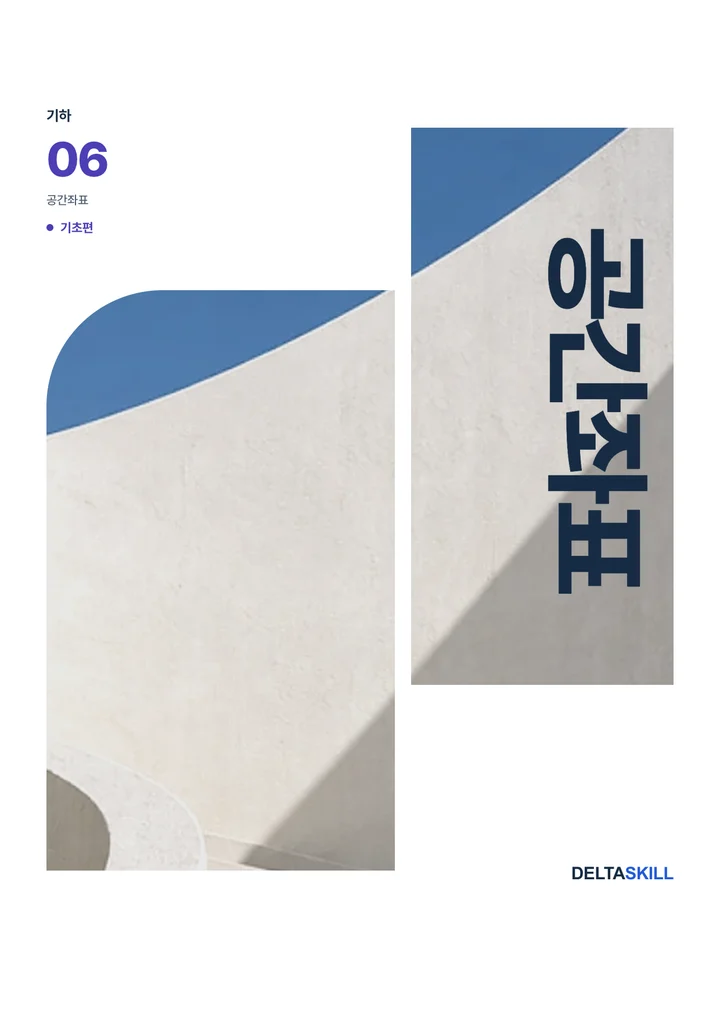
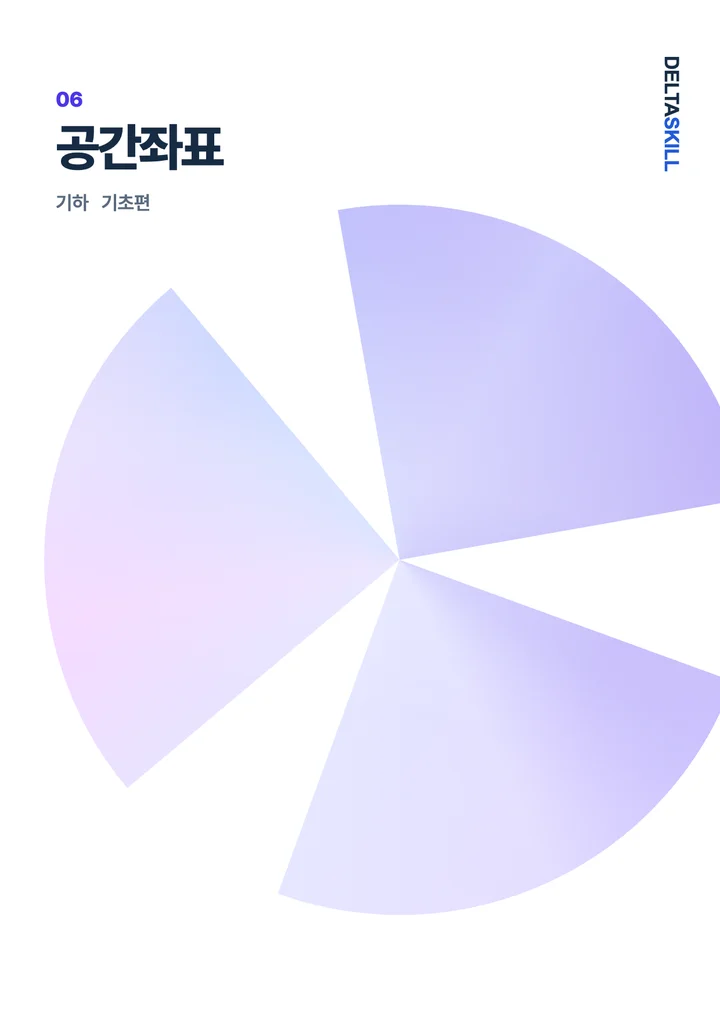
지침 확인: 홈페이지_디자인규칙_1118 (스킬: 공개리포기밀 · 차분간결) — 자료받기 표지 38장 글리프 · 톤온톤 두 방향으로 교체(형 11-25 「올린다」)
- 표지 webp 38장 덮어씀(바뀐 28 · 같던 10) · 주소 꼬리표 ?v=cover-r2-1125(자료받기 · 받은 자료)
- 구역 색 줄: 예상문제집 공통수학2 짙은 청록 · 미적분Ⅰ 짙은 올리브 · 쎈 기하 남보라로 맞춤
- index.html 의 materials-shop.js · student-downloads-receipts.js 꼬리표 새 sha · CSS 묶음 변경 0

diff --git a/app/index.html b/app/index.html
@@ -1,5 +1,5 @@
 <!doctype html>
 <html lang="ko"><head><meta name="robots" content="noindex,nofollow"><link rel="icon" href="/favicon-32.png"><script src="design-preview-bridge.js?v=17.4-1123dg"></script><meta charset="utf-8"><script>if(new URLSearchParams(location.search).has("capture"))document.documentElement.classList.add("hero-capture");</script><style>.hero-capture{scrollbar-width:none}.hero-capture::-webkit-scrollbar{display:none}</style><meta name="viewport" content="width=device-width,initial-scale=1"><meta name="description" content="델타스킬. 수학, 여기 다 있다."><title>DELTASKILL · 수학, 여기 다 있다</title><link rel="stylesheet" data-style-bundle="cascade-1" href="styles-cascade-1.css?v=7a7cc3252049" data-source-styles="[&quot;/app/deltaskill-next.css?v=99922a869ee7&quot;,&quot;/app/account-views.css?v=bb647539a267&quot;,&quot;/app/site-v2.css?v=2d4ad8428c0c&quot;,&quot;/app/site-v4.css?v=7aff2c2b0654&quot;,&quot;/app/classroom-views.css?v=4d4ecf023702&quot;,&quot;/app/diagnostics-v5.css?v=efa1a290ea06&quot;,&quot;/app/account-v7.css?v=2ae62026423e&quot;,&quot;/app/csat-v7.css?v=d20234a153c0&quot;,&quot;/app/site-v8.css?v=fc7b8469a2f6&quot;,&quot;/app/design-direction-b.css?v=28b64bd54500&quot;]"><link rel="stylesheet" crossorigin href="https://cdn.jsdelivr.net/gh/orioncactus/pretendard@v1.3.9/dist/web/variable/pretendardvariable-dynamic-subset.min.css" media="print" onload="this.media='all'"><noscript><link rel="stylesheet" href="https://cdn.jsdelivr.net/gh/orioncactus/pretendard@v1.3.9/dist/web/variable/pretendardvariable-dynamic-subset.min.css"></noscript><link rel="stylesheet" data-style-bundle="cascade-2" href="styles-cascade-2.css?v=94d0ea6cb77a" data-source-styles="[&quot;/app/composition-core-v12.css?v=8add953e50d9&quot;,&quot;/app/premium-library-v12.css?v=3dedd63a5239&quot;,&quot;/app/premium-account-v12.css?v=3120ed4cd9d5&quot;,&quot;/app/editorial-library-v13.css?v=902f303216fd&quot;,&quot;/app/editorial-core-v13.css?v=4c1de445f548&quot;,&quot;/app/editorial-account-v13.css?v=b60bc1f6f3c0&quot;,&quot;/app/type-and-touch-v13.css?v=59bc93156a8d&quot;,&quot;/app/print-composer-v14.css?v=e03c8d121331&quot;,&quot;/app/original-layouts-v14.css?v=b67bb7ba2136&quot;,&quot;/app/paper-scenes-v15.css?v=d946c0f1601a&quot;,&quot;/app/print-design-editor-v16.css?v=dbc028387603&quot;,&quot;/app/page-details-v16.css?v=89b5626f01e1&quot;,&quot;/app/print-design-account-v17.css?v=33a2499a5f22&quot;,&quot;/app/page-details-v17.css?v=90b8f06268a0&quot;,&quot;/app/csat-sn27-v17.css?v=a68c80c4d84a&quot;,&quot;/app/entrance-polish-v17.css?v=1645b4dcdce1&quot;,&quot;/app/time-attack-v18.css?v=ffd724841420&quot;,&quot;/app/tactile-controls-v18.css?v=bc0357589a94&quot;,&quot;/app/ipad-hardware-v19.css?v=82b4699ec454&quot;,&quot;/app/student-onboarding-v19.css?v=a03357ab8cf3&quot;,&quot;/app/library-finder-v19.css?v=52ab416e0a41&quot;,&quot;/app/account-polish-v19.css?v=581abc19d902&quot;,&quot;/app/csat-learning-v20.css?v=b7a77b76b3e8&quot;,&quot;/app/navigation-v20.css?v=c1dadb2f5445&quot;,&quot;/app/technology-v20.css?v=0d97ebece926&quot;,&quot;/app/teacher-books-v20.css?v=5caaf9bfaf8a&quot;,&quot;/app/material-interiors-v21.css?v=ae8a60eb313d&quot;,&quot;/app/material-teacher-v21.css?v=ea0127069b64&quot;,&quot;/app/upload-request-v22.css?v=98d27836f870&quot;,&quot;/app/upload-entry-v22.css?v=03b9092d4204&quot;,&quot;/app/audit-refinements-v23.css?v=a442e55b5d3f&quot;,&quot;/app/hero-time-demo-v23.css?v=01a83f1496a6&quot;,&quot;/app/learning-grade-v23.css?v=299a8480ab48&quot;,&quot;/app/technology-editorial-v24.css?v=504411d5a64d&quot;]"><link rel="stylesheet" data-ds-katex-version="0.18.4" href="assets/vendor/katex-0.18.4/katex-embed.css?v=24.3"><link rel="stylesheet" data-style-bundle="cascade-3" href="styles-cascade-3.css?v=695af8ca7d36" data-source-styles="[&quot;/app/math-render-v23.css?v=0d1421728e72&quot;,&quot;/app/interior-editorial-v24.css?v=81f19bc73ff8&quot;,&quot;/app/existing-services-v24.css?v=eb5b1379f860&quot;,&quot;/app/print-thumbnail-fix-v24.css?v=3d4dc3985854&quot;,&quot;/app/technology-detail-v25.css?v=c70f0be00e14&quot;,&quot;/app/entrance-layout-v25.css?v=7c6978a8484a&quot;,&quot;/app/academy-library-v25.css?v=6293ed4c2dc1&quot;,&quot;/app/exam-week-v25.css?v=6954d4f3530a&quot;,&quot;/app/technology-overview-v25.css?v=ecb43c2d15de&quot;,&quot;/app/hero-finals-demo-v26.css?v=427d8d4b58c5&quot;,&quot;/app/school-exams-v26.css?v=01514dc7b54b&quot;,&quot;/app/hero-portrait-video-v27.css?v=ff63b6a273e2&quot;,&quot;/app/entrance-finish-v28.css?v=6e2e6f7bee2b&quot;,&quot;/app/print-workbench-v29.css?v=af9343d223fa&quot;,&quot;/app/task-first-v32.css?v=0c0384f09d5b&quot;,&quot;/app/classroom-workbench-v32.css?v=a9cdc2f204ae&quot;,&quot;/app/teacher-documents-v34.css?v=5ed5c0dce268&quot;,&quot;/app/canonical-print-v35.css?v=f39debb75e1a&quot;,&quot;/app/teacher-commission.css?v=d34a0800863c&quot;,&quot;/app/teacher-builder-v36.css?v=81434015f752&quot;,&quot;/app/hero-detail-v39.css?v=bba104e33c65&quot;,&quot;/app/hero-detail-v40.css?v=51c304747fff&quot;,&quot;/app/hero-workflow-v41.css?v=dadbd4273ff2&quot;,&quot;/app/hero-company-v42.css?v=30dc1cd0ca66&quot;,&quot;/app/hero-compare-v43.css?v=509f8388c742&quot;,&quot;/app/hero-focus-v43.css?v=38cf72aac05e&quot;,&quot;/app/hero-print-v44.css?v=c56c242bc898&quot;,&quot;/app/display-clarity-v46.css?v=aea10d51c3a6&quot;,&quot;/app/hero-optics-v46.css?v=cf23ca1d87c5&quot;,&quot;/app/print-surface-v48.css?v=fc3c22a7a61e&quot;,&quot;/app/hero-clarity-v48.css?v=c8e5ea345137&quot;,&quot;/app/technology-hq-v48.css?v=afdd9c384a9b&quot;,&quot;/app/technology-showcase-v60.css?v=da62e7d6c0a9&quot;,&quot;/app/teacher-texture-v50.css?v=f205eee8a4e8&quot;,&quot;/app/teacher-layout-v51.css?v=72dfa9c0c3d2&quot;,&quot;/app/student-entry-v54.css?v=15bbece9756e&quot;,&quot;/app/student-entry-v55.css?v=90db438977b1&quot;,&quot;/app/student-account-v55.css?v=398b054555b9&quot;,&quot;/app/student-review-coach-v56.css?v=40d2a065ffc4&quot;,&quot;/app/student-first-visit-v57.css?v=6858e30ed9fb&quot;,&quot;/app/student-guest-save-v57.css?v=0f7056be9360&quot;,&quot;/app/ui-legibility-v58.css?v=c531de76d208&quot;,&quot;/app/surface-material-v58.css?v=5428968cbd8c&quot;,&quot;/app/teacher-bookform-v62.css?v=188ee9609200&quot;,&quot;/app/library-desk-v63.css?v=c47f8ec64a74&quot;,&quot;/app/naesin-flow-v64.css?v=d63231a3e431&quot;,&quot;/app/entrance-logo-v65.css?v=9091dcf9e81c&quot;,&quot;/app/../assets/brand-symbol.css?v=8e5b55386552&quot;,&quot;/assets/point-pdf.css?v=7d2e7704de37&quot;,&quot;/app/materials-shop.css?v=e6ca950577b7&quot;,&quot;/welcome-points.css?v=1eec7df6bc89&quot;]"><script src="/welcome-points.js?v=welcome-join-2"></script><link rel="stylesheet" data-style-bundle="cascade-4" href="styles-cascade-4.css?v=740bfd13ee45" data-source-styles="[&quot;/app/student-signed-in-layout.css?v=03648d6d1816&quot;,&quot;/app/student-study-paths.css?v=a04bd5fc4d39&quot;,&quot;/app/student-study-plan.css?v=4a6336efeaf0&quot;,&quot;/app/received-pdf-reader.css?v=ba0ffc41d817&quot;,&quot;/app/student-downloads-receipts.css?v=cd40c82f33be&quot;,&quot;/app/student-downloads.css?v=15f56aac539e&quot;,&quot;/app/student-hub.css?v=21e7140af480&quot;,&quot;/app/csat-materials.css?v=c0ab67408f0f&quot;,&quot;/app/csat-print.css?v=6e18ae10bf66&quot;,&quot;/app/csat-student.css?v=4e311633a571&quot;]"></head>
 <body><a href="#content" class="skip">본문으로</a><div id="intro" hidden><div class="intro-word">DELTASKILL</div><button id="skip-intro">건너뛰기</button></div><header id="header"></header><main id="content" tabindex="-1"></main><div id="dock"></div><footer class="business-footer app-business-footer"><div class="business-info"><nav aria-label="이용 정책"><a href="/terms/">이용약관</a> <a class="pp" href="/privacy/"><b>개인정보처리방침</b></a> <a href="/refund/">환불·청약철회 안내</a></nav><p>상호 델타스킬 · 대표 송재형 · 사업자등록번호 345-62-00876 <a href="https://www.ftc.go.kr/bizCommPop.do?wrkr_no=3456200876" target="_blank" rel="noopener">사업자정보확인</a> · 통신판매업신고 제2026-서울서초-3410호</p><p>주소 서울특별시 서초구 마방로10길 18-16, 4층(양재동, 진우빌딩) · 전화 070-8065-2468 · 이메일 <a href="mailto:admin@deltaskill.co.kr">admin@deltaskill.co.kr</a></p><p>개인정보보호책임자 송재형 · 호스팅 제공자 GitHub, Inc.(GitHub Pages) · Supabase, Inc.(결제·다운로드 서버)</p></div></footer><div id="toast" role="status"></div><dialog id="feedback"><form id="feedback-form"><div class="between"><span class="eyebrow">함께 만드는 델타스킬</span><button type="button" data-close aria-label="닫기" class="icon-button">×</button></div><h2>의견 남기기</h2><p id="feedback-context" class="muted"></p><label>어떤 부분인가요?<select name="kind"><option>문항·해설</option><option>화면·사용 흐름</option><option>다음 기능 제안</option></select></label><label>의견<textarea name="message" rows="4" maxlength="1000" placeholder="불편한 점이나 필요한 기능을 알려 주세요." required></textarea></label><p class="small muted">보내기를 누르면 이 내용이 담긴 메일이 메일 앱에서 열립니다(받는 곳 admin@deltaskill.co.kr).</p><button class="primary" type="submit">메일로 보내기</button></form></dialog><dialog id="paper-dialog"><div class="between"><span class="small muted" id="paper-title">지면 미리보기</span><button class="icon-button" data-close-paper aria-label="미리보기 닫기">×</button></div><div class="a4" id="paper-expanded"></div></dialog><div id="print-area"></div><script src="public-data/auth.js?v=17.4"></script><script src="public-data/catalog.js?v=shelf-1124"></script><script src="public-data/finals-integral-bank.js?v=17.4"></script><script src="/assets/member-prints.js?v=1"></script><script src="member-services.js?v=66.1"></script><script src="account-views.js?v=896e5b415e"></script><script src="classroom-views.js?v=32.1-1123"></script><script src="diagnostic-domain.js?v=17.4"></script><script src="print-login-return.js?v=4aa3726f49"></script><script src="deltaskill-next.js?v=entry-intro-1124"></script><script src="page-enhancements-v17.js?v=17.4"></script><script src="csat-sn27-v17.js?v=17.4"></script><script src="time-attack-v18.js?v=23.3"></script><script src="entrance-polish-v17.js?v=31.2"></script><script src="student-onboarding-v19.js?v=32.1"></script><script src="library-finder-v19.js?v=32.1"></script><script src="account-polish-v19.js?v=study-8f73e9b4e7"></script><script src="csat-learning-v20.js?v=desk-fa7ed879a"></script><script src="math-typeset-v66.js?v=66.1"></script><script src="technology-showcase-v60.js?v=66.1"></script><script src="teacher-books-v20.js?v=20.1"></script><script src="navigation-v20.js?v=d5e53d74a7"></script><script src="upload-request-v22.js?v=22.2-1123"></script><script src="upload-entry-v22.js?v=23.1"></script><script src="hero-time-demo-v23.js?v=41.4"></script><script src="learning-grade-v23.js?v=24.1"></script><script src="assets/vendor/katex-0.18.4/katex.min.js"></script><script src="math-render-v23.js?v=66.1"></script><script src="interior-editorial-v24.js?v=24.1"></script><script src="existing-services-v24.js?v=1b13ac011d"></script><script src="academy-library-v25.js?v=25.2-1123"></script><script src="exam-week-v25.js?v=25.2-1123"></script><script src="school-exams-v26.js?v=26.2-1123"></script><script src="library-desk-v63.js?v=2886eba6f83f"></script><script src="public-data/hero-film-v38.js?v=media-1124"></script><script src="hero-portrait-video-v27.js?v=38.1"></script><script src="entrance-finish-v28.js?v=28.1"></script><script src="public-data/basic-exam-v36.js?v=55.3"></script><script src="print-surface-v48.js?v=18e0f7c79e"></script><link rel="stylesheet" href="/assets/business-footer.css?v=app1124b">
-<link rel="stylesheet" href="document-design.css?v=collection-1124b"><script src="document-design.js?v=fd82c023d9"></script><script src="book-cover-editorial-templates.js?v=collection-1124"></script><script src="book-cover-type-templates.js?v=collection-1124"></script><script src="book-cover-photo-templates.js?v=collection-1124"></script><script src="book-cover-object-templates.js?v=collection-1124"></script><script src="book-cover-v65.js?v=collection-1124"></script><script src="canonical-print-v35.js?v=collection-1124"></script><script src="teacher-documents-v34.js?v=35.1"></script><script src="teacher-commission.js?v=3b98cbac6ea4"></script><script src="teacher-builder-v36.js?v=4057059bfe43"></script><script src="teacher-bookform-v62.js?v=desk-558561a38"></script><script src="materials-shop.js?v=42dde47dc3ad"></script><script src="naesin-flow-v64.js?v=teacher-1124"></script><script src="hero-detail-v39.js?v=40.1"></script><script src="hero-detail-v40.js?v=48.1"></script><script src="hero-print-v44.js?v=style-sources-1124"></script><script src="hero-workflow-v41.js?v=home-only-1124"></script>
-<script src="hero-frame-review-v45.js?v=53.1"></script><script src="student-learning-domain-v54.js?v=55.3"></script><script src="student-cloud-v55.js?v=55.3"></script><script src="student-review-coach-v56.js?v=56.3"></script><script src="student-first-visit-v57.js?v=desk-cdaca0854"></script><script src="student-entry-v54.js?v=study-a8219da03d"></script><script src="student-account-v55.js?v=55.3.1"></script><script src="student-guest-save-v57.js?v=57.2"></script><link rel="stylesheet" href="draw-cards-v59.css?v=66.1"><link rel="stylesheet" href="draw-math-v61.css?v=66.1"><script src="draw-host-live-v59.js?v=292afd14d30a"></script><link rel="stylesheet" href="print-scope.css?v=desk-94666e4cb"><script src="print-scope-data.js?v=251c9b1d1c"></script><script src="workbook-scope.js?v=16d66ecb22ae"></script><script src="print-scope.js?v=8ca6e7443b"></script><script src="draw-teacher-v59.js?v=66.1"></script><script src="public-guard-v59.js?v=59.1-1123dg"></script><script src="front-embed-v59.js?v=66.1"></script><script src="/assets/point-pdf.js?v=ae24df9679"></script><script src="student-services.js?v=66.1"></script><script src="student-fragment.js?v=66.2"></script><script src="student-desk-practice-bank.js?v=desk-89d418b79"></script><script src="student-review-variants.js?v=study-68325a381e"></script><script src="student-choice-layout.js?v=b0d33377f4"></script><script src="student-study-plan.js?v=ef6778266735"></script><script src="student-study-plan-store.js?v=3ef3721229"></script><script src="student-study-paths.js?v=66.1"></script><script src="received-pdf-reader.js?v=dd692f2cf4"></script><script src="student-downloads-receipts.js?v=0f4e07d083"></script><script src="student-downloads.js?v=760ee9811d"></script><script src="final-practice-bank.js?v=5fa891a280"></script><link rel="stylesheet" href="student-timed-exam.css?v=66.1"><script src="student-timed-exam.js?v=245eb8e9d280"></script><script src="student-timed.js?v=66.1"></script><script src="student-hub.js?v=66.1"></script><link rel="stylesheet" href="mobile-navigation.css?v=e72aff178c"><script src="csat-materials.js?v=85964fa767"></script><script src="csat-print.js?v=b6274ec9d0"></script><script src="csat-student.js?v=1719fea053e5"></script><script src="mobile-navigation.js?v=a51714052b"></script><script src="commission-orders.js?v=d655477300ab"></script></body></html>
+<link rel="stylesheet" href="document-design.css?v=collection-1124b"><script src="document-design.js?v=fd82c023d9"></script><script src="book-cover-editorial-templates.js?v=collection-1124"></script><script src="book-cover-type-templates.js?v=collection-1124"></script><script src="book-cover-photo-templates.js?v=collection-1124"></script><script src="book-cover-object-templates.js?v=collection-1124"></script><script src="book-cover-v65.js?v=collection-1124"></script><script src="canonical-print-v35.js?v=collection-1124"></script><script src="teacher-documents-v34.js?v=35.1"></script><script src="teacher-commission.js?v=3b98cbac6ea4"></script><script src="teacher-builder-v36.js?v=4057059bfe43"></script><script src="teacher-bookform-v62.js?v=desk-558561a38"></script><script src="materials-shop.js?v=b8d13d7ebee4"></script><script src="naesin-flow-v64.js?v=teacher-1124"></script><script src="hero-detail-v39.js?v=40.1"></script><script src="hero-detail-v40.js?v=48.1"></script><script src="hero-print-v44.js?v=style-sources-1124"></script><script src="hero-workflow-v41.js?v=home-only-1124"></script>
+<script src="hero-frame-review-v45.js?v=53.1"></script><script src="student-learning-domain-v54.js?v=55.3"></script><script src="student-cloud-v55.js?v=55.3"></script><script src="student-review-coach-v56.js?v=56.3"></script><script src="student-first-visit-v57.js?v=desk-cdaca0854"></script><script src="student-entry-v54.js?v=study-a8219da03d"></script><script src="student-account-v55.js?v=55.3.1"></script><script src="student-guest-save-v57.js?v=57.2"></script><link rel="stylesheet" href="draw-cards-v59.css?v=66.1"><link rel="stylesheet" href="draw-math-v61.css?v=66.1"><script src="draw-host-live-v59.js?v=292afd14d30a"></script><link rel="stylesheet" href="print-scope.css?v=desk-94666e4cb"><script src="print-scope-data.js?v=251c9b1d1c"></script><script src="workbook-scope.js?v=16d66ecb22ae"></script><script src="print-scope.js?v=8ca6e7443b"></script><script src="draw-teacher-v59.js?v=66.1"></script><script src="public-guard-v59.js?v=59.1-1123dg"></script><script src="front-embed-v59.js?v=66.1"></script><script src="/assets/point-pdf.js?v=ae24df9679"></script><script src="student-services.js?v=66.1"></script><script src="student-fragment.js?v=66.2"></script><script src="student-desk-practice-bank.js?v=desk-89d418b79"></script><script src="student-review-variants.js?v=study-68325a381e"></script><script src="student-choice-layout.js?v=b0d33377f4"></script><script src="student-study-plan.js?v=ef6778266735"></script><script src="student-study-plan-store.js?v=3ef3721229"></script><script src="student-study-paths.js?v=66.1"></script><script src="received-pdf-reader.js?v=dd692f2cf4"></script><script src="student-downloads-receipts.js?v=ef1f2fb97f"></script><script src="student-downloads.js?v=760ee9811d"></script><script src="final-practice-bank.js?v=5fa891a280"></script><link rel="stylesheet" href="student-timed-exam.css?v=66.1"><script src="student-timed-exam.js?v=245eb8e9d280"></script><script src="student-timed.js?v=66.1"></script><script src="student-hub.js?v=66.1"></script><link rel="stylesheet" href="mobile-navigation.css?v=e72aff178c"><script src="csat-materials.js?v=85964fa767"></script><script src="csat-print.js?v=b6274ec9d0"></script><script src="csat-student.js?v=1719fea053e5"></script><script src="mobile-navigation.js?v=a51714052b"></script><script src="commission-orders.js?v=d655477300ab"></script></body></html>

diff --git a/app/materials-shop.js b/app/materials-shop.js
@@ -69,12 +69,12 @@
   const price = (p, fmt) => fmt === 'pdf' ? (quote(p)?.points ?? publicPoints[p.sku] ?? p.formats.pdf?.price ?? null) : p.formats.hwpx?.price;
   const cashReady = p => Number.isSafeInteger(p.formats.hwpx?.price) && p.formats.hwpx.price > 0 && p.formats.hwpx.files.length > 0;
   const enabled = (p, fmt) => !p.restored && (fmt === 'pdf' ? Number.isSafeInteger(price(p,fmt)) && price(p,fmt)>0 : cashReady(p));
-  const coverURL = sku => 'public-data/covers/' + encodeURIComponent(sku) + '.webp?v=series-1125';
+  const coverURL = sku => 'public-data/covers/' + encodeURIComponent(sku) + '.webp?v=cover-r2-1125';
   // One colour per shelf, taken from that series' new covers (tone = cover colour · deep = text-safe on white).
   const shelfTones = Object.freeze({
-    'OL-type-CM2':['#8ee0d7','#20776d'], 'OL-advanced-CM2':['#691d2b','#691d2b'], 'DS-PRACTICE-CM2':['#53b4a4','#33776c'], 'DS-PRACTICE-CM2-PASS':['#611422','#611422'],
-    'OL-type-CAL1':['#c0eb7b','#4e7411'], 'OL-advanced-CAL1':['#13286e','#13286e'], 'DS-PRACTICE-MI1':['#8cac38','#596e23'],
-    'DS-PRACTICE-PNC':['#9bd0f1','#1770a8'], 'SSEN-GEO':['#6893c6','#3f6ea7']
+    'OL-type-CM2':['#8ee0d7','#20776d'], 'OL-advanced-CM2':['#691d2b','#691d2b'], 'DS-PRACTICE-CM2':['#136561','#136561'], 'DS-PRACTICE-CM2-PASS':['#611422','#611422'],
+    'OL-type-CAL1':['#c0eb7b','#4e7411'], 'OL-advanced-CAL1':['#13286e','#13286e'], 'DS-PRACTICE-MI1':['#4a5e14','#4a5e14'],
+    'DS-PRACTICE-PNC':['#9bd0f1','#1770a8'], 'SSEN-GEO':['#7868f0','#5a4bd0']
   });
   const toneStyle = id => { const t = shelfTones[id]; return t ? ` style="--ms-tone:${t[0]};--ms-deep:${t[1]}"` : ''; };
   const cost = (p,fmt) => Number.isSafeInteger(price(p,fmt)) ? money(price(p,fmt)) + (fmt === 'pdf' ? ' P' : '원') : '';

diff --git a/app/student-downloads-receipts.js b/app/student-downloads-receipts.js
@@ -7,7 +7,7 @@
   const disabled=value=>value?' disabled':'';
   function card({title,fileId,meta,actions,format='PDF'}){
     const sku=String(fileId||'').replace(/\.pdf$/i,'');
-    const cover=knownCovers.has(sku)?`<img src="public-data/covers/${sku}.webp?v=series-1125" alt="" width="50" height="71">`:`<span class="sr-format" aria-hidden="true">${escape(format||'파일')}</span>`;
+    const cover=knownCovers.has(sku)?`<img src="public-data/covers/${sku}.webp?v=cover-r2-1125" alt="" width="50" height="71">`:`<span class="sr-format" aria-hidden="true">${escape(format||'파일')}</span>`;
     return `<li class="sr-row">${cover}<div><h4>${escape(title)}</h4><p>${escape(meta.filter(Boolean).join(' · '))}</p><div class="sr-actions">${actions}</div></div></li>`;
   }
   function pointList(rows,busy){
